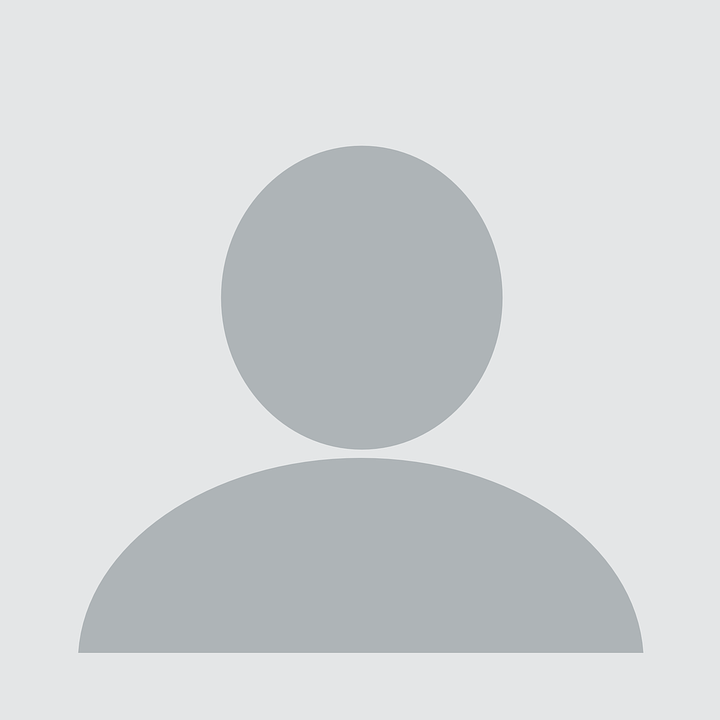
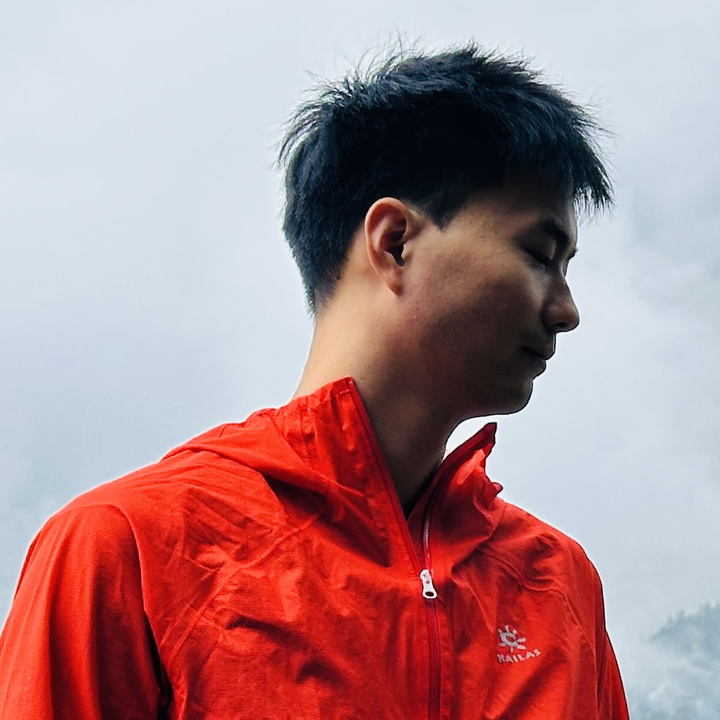
Updates

diff --git a/_pages/research.md b/_pages/research.md
@@ -1,0 +1,39 @@
+---
+layout: single
+title: "Research"
+permalink: /research/
+author_profile: true
+---
+
+{% include base_path %}
+
+**Two-dimensional material transistor technology and device physics**
+
+Development of channel-integrated, high-mobility complementary transistor technology using two-dimensional (2D) semiconductors for 1 nm-node integrated circuits. First-principles calculations are used to model the device physics of 2D material to metal contacts, informing contact engineering, controllable doping methods, and stable van der Waals stacking processes toward 2D monolayer-body-channel gate-all-around (MBC-GAA) field-effect transistors. This work has yielded homogeneously integrated complementary logic circuits in MoS<sub>2</sub>, and complementary MoS<sub>2</sub> inverters built from fully 2D metal-insulator-semiconductor stacks incorporating h-BN and graphene.
+
+**Nanostructured optoelectronic memristor design and on-chip integration**
+
+Integration of photodetection and memristive switching into a single edge device for sensing-computing convergence, where nanostructuring further enables high-resolution imaging and high-density information processing. This research uses three-dimensional perovskite nanowire and quantum-wire arrays to fabricate optoelectronic memristors, applies first-principles molecular dynamics to model multi-level resistive switching, and develops CMOS-compatible integration methods for functional circuits.
+
+<!--
+TODO: add 2-3 figures here (device schematics, band diagrams, key results).
+Put image files in /images/ and uncomment/adapt lines like:
+
+<img src="{{ base_path }}/images/research-fig1.png" alt="Description of figure" style="max-width:100%; margin: 1em 0;">
+<img src="{{ base_path }}/images/research-fig2.png" alt="Description of figure" style="max-width:100%; margin: 1em 0;">
+-->
+
+## Publications
+
+{% assign pubs_sorted = site.publications | sort: "date" | reverse %}
+{% assign pubs_by_year = pubs_sorted | group_by_exp: "pub", "pub.date | date: '%Y'" %}
+{% for yeargroup in pubs_by_year %}
+### {{ yeargroup.name }}
+
+{% for pub in yeargroup.items %}
+**{{ pub.title }}**
+
+{{ pub.authors | replace: "Zichao Ma", "**Zichao Ma**" }}{% if pub.note != "" %}. *{{ pub.note }}*{% endif %}. {{ pub.venue }}{% if pub.details != "" %}, {{ pub.details }}{% endif %}, {{ pub.date | date: "%Y" }}.
+
+{% endfor %}
+{% endfor %}

diff --git a/_pages/about.md b/_pages/about.md
@@ -9,13 +9,4 @@ redirect_from:
 
 Zichao Ma is an Associate Professor at the School of Integrated Circuits (Microelectronics), South China University of Technology.
 
-Research interests
-======
-
-**Two-dimensional material transistor technology and device physics**
-
-Development of channel-integrated, high-mobility complementary transistor technology using two-dimensional (2D) semiconductors for 1 nm-node integrated circuits. First-principles calculations are used to model the device physics of 2D material to metal contacts, informing contact engineering, controllable doping methods, and stable van der Waals stacking processes toward 2D monolayer-body-channel gate-all-around (MBC-GAA) field-effect transistors. This work has yielded homogeneously integrated complementary logic circuits in MoS<sub>2</sub>, and complementary MoS<sub>2</sub> inverters built from fully 2D metal-insulator-semiconductor stacks incorporating h-BN and graphene.
-
-**Nanostructured optoelectronic memristor design and on-chip integration**
-
-Integration of photodetection and memristive switching into a single edge device for sensing-computing convergence, where nanostructuring further enables high-resolution imaging and high-density information processing. This research uses three-dimensional perovskite nanowire and quantum-wire arrays to fabricate optoelectronic memristors, applies first-principles molecular dynamics to model multi-level resistive switching, and develops CMOS-compatible integration methods for functional circuits.
+See [Research]({{ "/research/" | relative_url }}) for research interests and publications, [Teaching]({{ "/teaching/" | relative_url }}) for courses, and [CV]({{ "/cv/" | relative_url }}) for education, positions, awards, and grants.

diff --git a/_publications/16-biomimetic-olfactory-chips-based-on-large-scale-monolithically.md b/_publications/16-biomimetic-olfactory-chips-based-on-large-scale-monolithically.md
@@ -4,5 +4,7 @@ collection: publications
 category: manuscripts
 date: 2024-01-01
 venue: "Nature Electronics"
-citation: "Chen Wang, Zhesi Chen, Chak Lam Jonathan Chan, Zhu'an Wan, Wenhao Ye, Wenying Tang, <strong>Zichao Ma</strong>, Beitao Ren, Daquan Zhang, Zhilong Song, Yucheng Ding, Zhenghao Long, Swapnadeep Poddar, Weiqi Zhang, Zixi Wan, Feng Xue, Suman Ma, Qingfeng Zhou, Geyu Lu, Kai Liu, Zhiyong Fan. &quot;Biomimetic Olfactory Chips Based on Large-Scale Monolithically Integrated Nanotube Sensor Arrays.&quot; <i>Nature Electronics</i>, 7(2), 157-167, 2024."
+details: "7(2), 157-167"
+authors: "Chen Wang, Zhesi Chen, Chak Lam Jonathan Chan, Zhu'an Wan, Wenhao Ye, Wenying Tang, Zichao Ma, Beitao Ren, Daquan Zhang, Zhilong Song, Yucheng Ding, Zhenghao Long, Swapnadeep Poddar, Weiqi Zhang, Zixi Wan, Feng Xue, Suman Ma, Qingfeng Zhou, Geyu Lu, Kai Liu, Zhiyong Fan"
+note: ""
 ---

diff --git a/_publications/17-a-tetrachromatic-sensor-for-imaging-beyond-the-visible.md b/_publications/17-a-tetrachromatic-sensor-for-imaging-beyond-the-visible.md
@@ -4,5 +4,7 @@ collection: publications
 category: manuscripts
 date: 2024-01-01
 venue: "Device"
-citation: "Xiao Qiu, Yucheng Ding, Zhibo Sun, Haocheng Ji, Yu Zhou, Zhenghao Long, Gongze Liu, Peiyao Wang, Swapnadeep Poddar, Beitao Ren, Kemeng Zhou, Ziyun Li, Yang Bryan Cao, <strong>Zichao Ma</strong>, Baikui Li, Yuanjing Lin, Baoling Huang, Jiannong Wang, Hoi Sing Kwok, Zhiyong Fan. &quot;A Tetrachromatic Sensor for Imaging Beyond the Visible Spectrum in Harsh Conditions.&quot; <i>Device</i>, 2(5), 100357, 2024."
+details: "2(5), 100357"
+authors: "Xiao Qiu, Yucheng Ding, Zhibo Sun, Haocheng Ji, Yu Zhou, Zhenghao Long, Gongze Liu, Peiyao Wang, Swapnadeep Poddar, Beitao Ren, Kemeng Zhou, Ziyun Li, Yang Bryan Cao, Zichao Ma, Baikui Li, Yuanjing Lin, Baoling Huang, Jiannong Wang, Hoi Sing Kwok, Zhiyong Fan"
+note: ""
 ---

diff --git a/_publications/10-robust-lead-free-perovskite-nanowire-array-based-artificial.md b/_publications/10-robust-lead-free-perovskite-nanowire-array-based-artificial.md
@@ -4,5 +4,7 @@ collection: publications
 category: manuscripts
 date: 2022-01-01
 venue: "Advanced Intelligent Systems"
-citation: "Swapnadeep Poddar, Zhesi Chen, <strong>Zichao Ma</strong>, Yuting Zhang, Chak Lam Jonathan Chan, Beitao Ren, Qianpeng Zhang, Daquan Zhang, Guozhen Shen, Zhiyong Fan. &quot;Robust Lead-Free Perovskite Nanowire Array Based Artificial Synapses Exemplifying Gestalt Principle of Closure.&quot; <i>Advanced Intelligent Systems</i>, 4, 2270031, 2022. (Co-first author; cover article)"
+details: "4, 2270031"
+authors: "Swapnadeep Poddar, Zhesi Chen, Zichao Ma, Yuting Zhang, Chak Lam Jonathan Chan, Beitao Ren, Qianpeng Zhang, Daquan Zhang, Guozhen Shen, Zhiyong Fan"
+note: "Co-first author; cover article"
 ---

diff --git a/_publications/15-pixelation-of-perovskite-quantum-wire-thin-films-with.md b/_publications/15-pixelation-of-perovskite-quantum-wire-thin-films-with.md
@@ -4,5 +4,7 @@ collection: publications
 category: manuscripts
 date: 2025-01-01
 venue: "Science Advances"
-citation: "Qianpeng Zhang, Xiaofei Sun, Guanyu Chen, <strong>Zichao Ma</strong>, Daquan Zhang, Yu Zhou, Xiao Qiu, Beitao Ren, Yucheng Ding, Swapnadeep Poddar, Wenying Tang, Hualiang Lv, Xiaoliang Mo, Zhiyong Fan. &quot;Pixelation of Perovskite Quantum Wire Thin Films with 0.18 &mu;m Features and 63,500 ppi Pixel Density.&quot; <i>Science Advances</i>, 11(20), eadu3840, 2025."
+details: "11(20), eadu3840"
+authors: "Qianpeng Zhang, Xiaofei Sun, Guanyu Chen, Zichao Ma, Daquan Zhang, Yu Zhou, Xiao Qiu, Beitao Ren, Yucheng Ding, Swapnadeep Poddar, Wenying Tang, Hualiang Lv, Xiaoliang Mo, Zhiyong Fan"
+note: ""
 ---

diff --git a/_publications/08-perovskite-nanowire-array-based-continuous-state-programmable-artificial.md b/_publications/08-perovskite-nanowire-array-based-continuous-state-programmable-artificial.md
@@ -4,5 +4,7 @@ collection: publications
 category: manuscripts
 date: 2024-01-01
 venue: "Advanced Intelligent Systems"
-citation: "Yuting Zhang, <strong>Zichao Ma</strong>, Zhesi Chen, Swapnadeep Poddar, Yudong Zhu, Bing Han, Chak Lam Jonathan Chan, Yucheng Ding, Xiangpeng Kong, Zhiyong Fan. &quot;Perovskite-Nanowire-Array-Based Continuous-State Programmable Artificial Synapse for Neuromorphic Computing.&quot; <i>Advanced Intelligent Systems</i>, 6(5), 2300586, 2024. (Co-first author)"
+details: "6(5), 2300586"
+authors: "Yuting Zhang, Zichao Ma, Zhesi Chen, Swapnadeep Poddar, Yudong Zhu, Bing Han, Chak Lam Jonathan Chan, Yucheng Ding, Xiangpeng Kong, Zhiyong Fan"
+note: "Co-first author"
 ---

diff --git a/_publications/03-simulation-study-on-the-scalability-of-channel-all.md b/_publications/03-simulation-study-on-the-scalability-of-channel-all.md
@@ -4,5 +4,7 @@ collection: publications
 category: manuscripts
 date: 2026-01-01
 venue: "IEEE Journal of the Electron Devices Society"
-citation: "Ran Huo, Shijun Ou, Zhehao Wu, Han Zhang, Bowen Lv, Yvyang Shao, <strong>Zichao Ma</strong>, Min Zhang, Mansun Chan, Changjian Zhou. &quot;Simulation Study on the Scalability of Channel-All-Around Reconfigurable Field-Effect Transistors With Gate-Controlled Polarity.&quot; <i>IEEE Journal of the Electron Devices Society</i>, 14, 93-101, 2026. (Corresponding author)"
+details: "14, 93-101"
+authors: "Ran Huo, Shijun Ou, Zhehao Wu, Han Zhang, Bowen Lv, Yvyang Shao, Zichao Ma, Min Zhang, Mansun Chan, Changjian Zhou"
+note: "Corresponding author"
 ---

diff --git a/_publications/21-image-processing-with-multi-level-ultra-fast-three.md b/_publications/21-image-processing-with-multi-level-ultra-fast-three.md
@@ -4,5 +4,7 @@ collection: publications
 category: manuscripts
 date: 2022-01-01
 venue: "Nanoscale Horizons"
-citation: "Swapnadeep Poddar, Yuting Zhang, Zhesi Chen, <strong>Zichao Ma</strong>, Yu Fu, Yucheng Ding, Chak Lam Jonathan Chan, Qianpeng Zhang, Daquan Zhang, Zhitang Song, Zhiyong Fan. &quot;Image Processing with Multi-Level Ultra-Fast Three Dimensionally Integrated Perovskite Nanowire Array.&quot; <i>Nanoscale Horizons</i>, 7, 759-769, 2022."
+details: "7, 759-769"
+authors: "Swapnadeep Poddar, Yuting Zhang, Zhesi Chen, Zichao Ma, Yu Fu, Yucheng Ding, Chak Lam Jonathan Chan, Qianpeng Zhang, Daquan Zhang, Zhitang Song, Zhiyong Fan"
+note: ""
 ---

diff --git a/_publications/18-geometric-shape-recognition-with-an-ultra-high-density.md b/_publications/18-geometric-shape-recognition-with-an-ultra-high-density.md
@@ -4,5 +4,7 @@ collection: publications
 category: manuscripts
 date: 2024-01-01
 venue: "ACS Applied Materials &amp; Interfaces"
-citation: "Swapnadeep Poddar, Zhesi Chen, Shivam Kumar, Daquan Zhang, Yucheng Ding, Zhenghao Long, <strong>Zichao Ma</strong>, Qianpeng Zhang, Zhiyong Fan. &quot;Geometric Shape Recognition with an Ultra-High Density Perovskite Nanowire Array-Based Artificial Vision System.&quot; <i>ACS Applied Materials &amp; Interfaces</i>, 16(4), 2024."
+details: "16(4)"
+authors: "Swapnadeep Poddar, Zhesi Chen, Shivam Kumar, Daquan Zhang, Yucheng Ding, Zhenghao Long, Zichao Ma, Qianpeng Zhang, Zhiyong Fan"
+note: ""
 ---

diff --git a/_publications/45-enhancing-igzo-thin-film-transistor-scalability-through-tunneling.md b/_publications/45-enhancing-igzo-thin-film-transistor-scalability-through-tunneling.md
@@ -4,5 +4,7 @@ collection: publications
 category: conferences
 date: 2019-01-01
 venue: "2019 International Symposium on VLSI Technology, Systems and Application (VLSI-TSA)"
-citation: "<strong>Zichao Ma</strong>, Xintong Zhang, Clarissa Cyrilla Prawoto, Lining Zhang, Longyan Wang, Mansun Chan. &quot;Enhancing IGZO Thin Film Transistor Scalability Through Tunneling Contact.&quot; <i>2019 International Symposium on VLSI Technology, Systems and Application (VLSI-TSA)</i>, 2019. (First author)"
+details: ""
+authors: "Zichao Ma, Xintong Zhang, Clarissa Cyrilla Prawoto, Lining Zhang, Longyan Wang, Mansun Chan"
+note: "First author"
 ---

diff --git a/_publications/20-au-nanocagein2o3-nanoparticle-based-hybrid-structures-for-formaldehyde.md b/_publications/20-au-nanocagein2o3-nanoparticle-based-hybrid-structures-for-formaldehyde.md
@@ -4,5 +4,7 @@ collection: publications
 category: manuscripts
 date: 2023-01-01
 venue: "ACS Applied Nano Materials"
-citation: "Jinyu Huang, <strong>Zichao Ma</strong>, Junda Li, Zhonglei Zhang, Jihua Tang, Xiangdong Cao, Wei Xu, Xiaojin Zhao, Yatao Yang, Xiaofang Pan, Yu Du. &quot;Au Nanocage/In<sub>2</sub>O<sub>3</sub> Nanoparticle-Based Hybrid Structures for Formaldehyde Sensors.&quot; <i>ACS Applied Nano Materials</i>, 6(9), 7855-7863, 2023."
+details: "6(9), 7855-7863"
+authors: "Jinyu Huang, Zichao Ma, Junda Li, Zhonglei Zhang, Jihua Tang, Xiangdong Cao, Wei Xu, Xiaojin Zhao, Yatao Yang, Xiaofang Pan, Yu Du"
+note: ""
 ---
